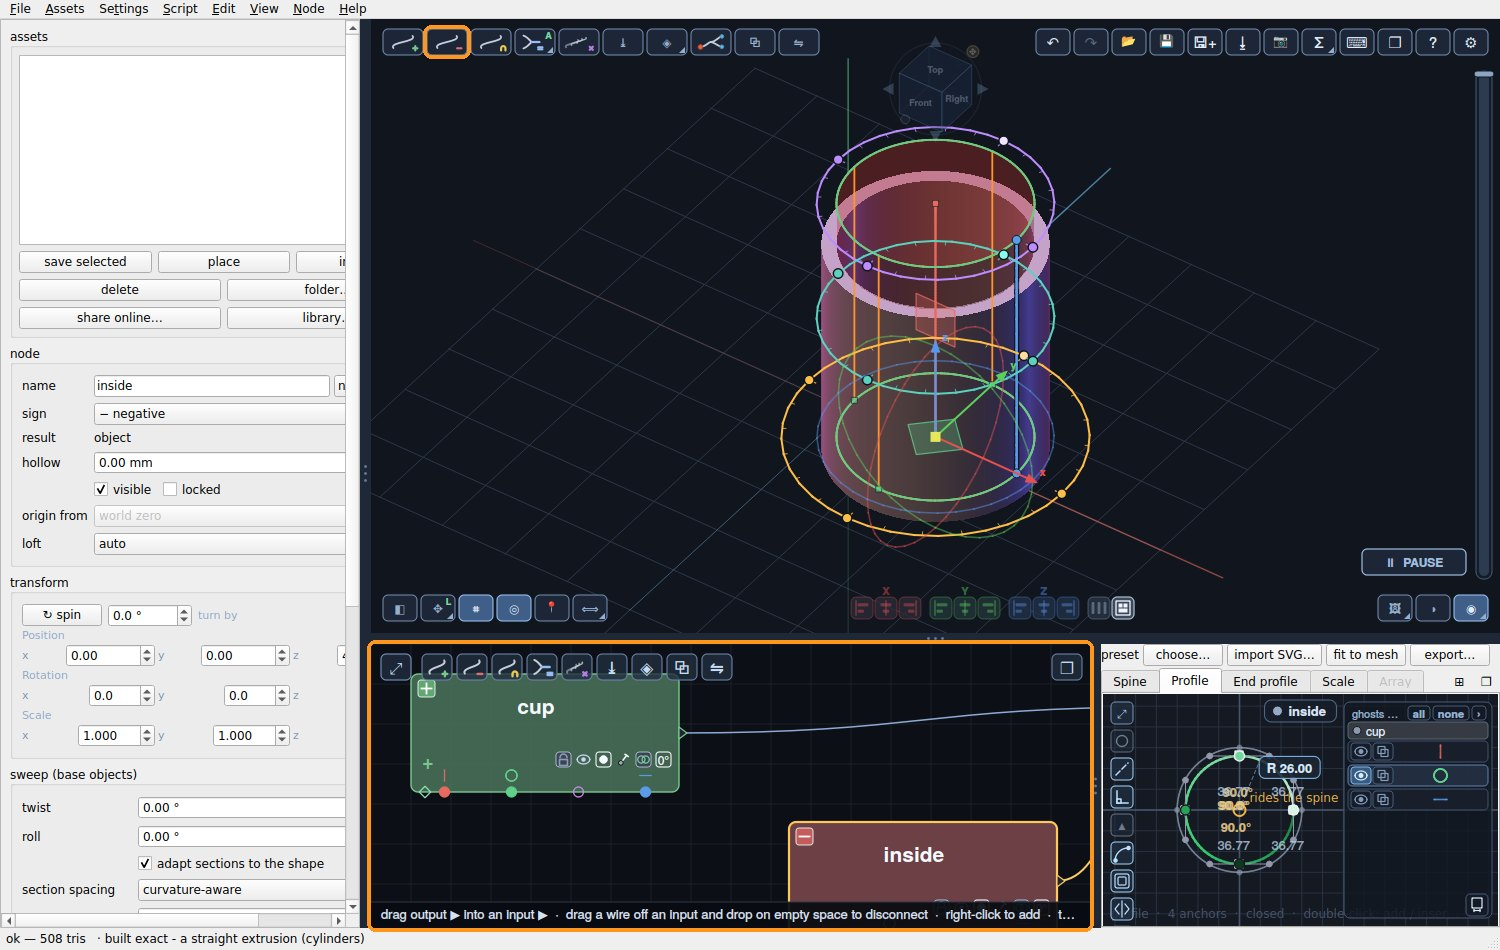
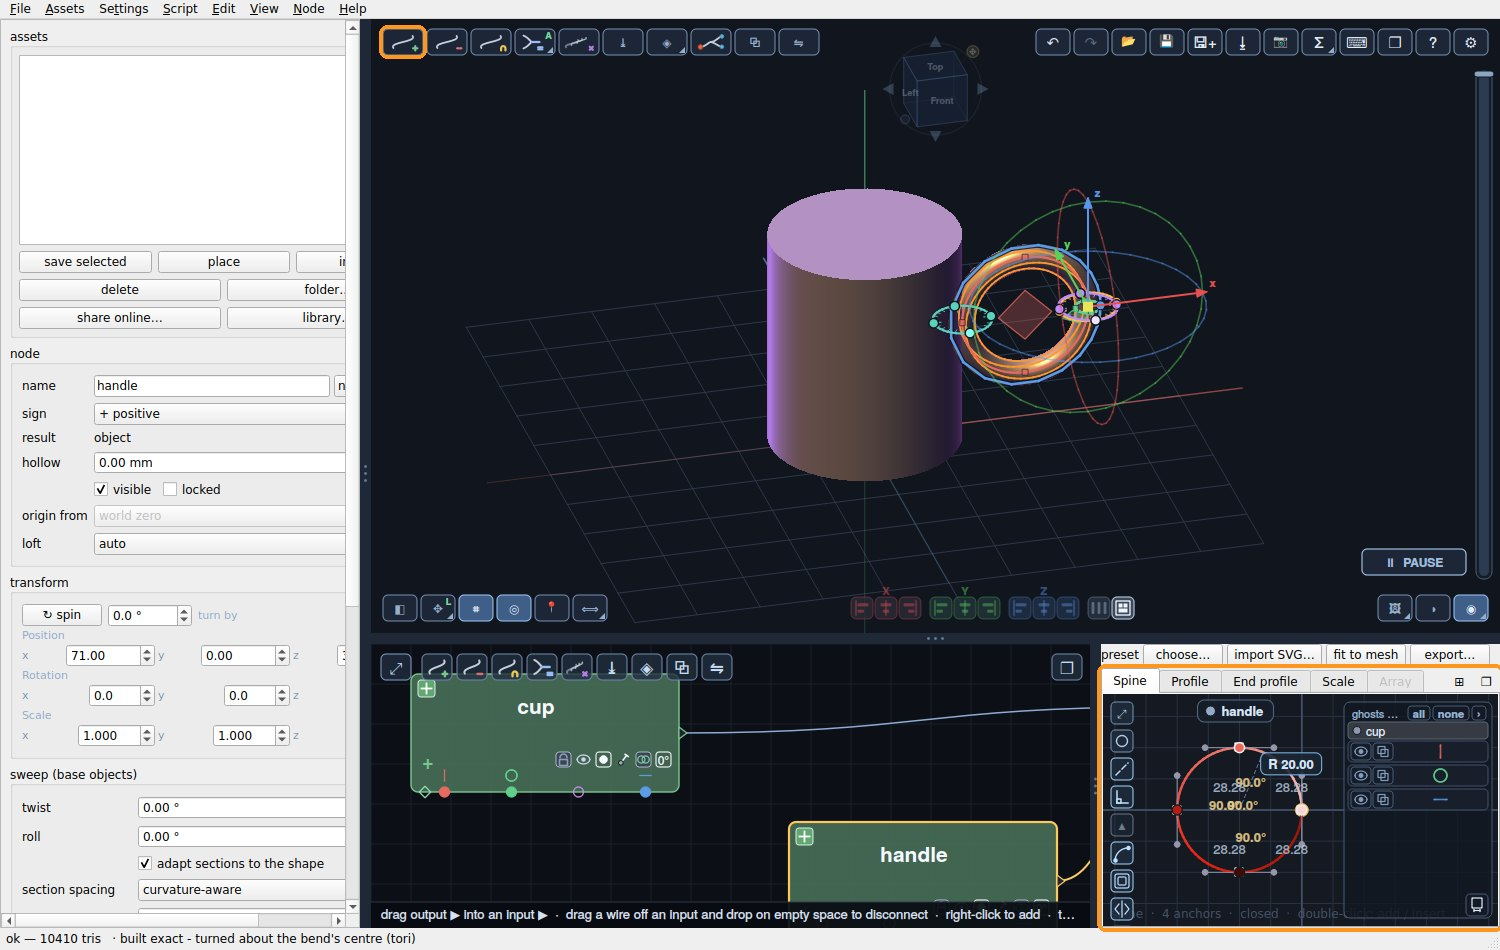
Tutorials: the mug gets its handle first, then the cut - so nothing of the handle stays inside
Claude-Session: https://claude.ai/code/session_01FinDQzmNEn83dQzT9cynig

diff --git a/tutorials.html b/tutorials.html
@@ -106,7 +106,7 @@ it is simple: everything is a <b>profile</b> (a cross-section) pushed along a <b
 <div class="cards">
   <a class="card" href="#window"><b>1 &middot; Finding your way</b><span>The window, the icons and the navigator. About three minutes.</span></a>
   <a class="card" href="#vase"><b>2 &middot; A twisted vase</b><span>One object, three graphs and a twist. About five minutes.</span></a>
-  <a class="card" href="#mug"><b>3 &middot; A mug: combining objects</b><span>Cut one object out of another, add a handle, and round the seam. About ten minutes.</span></a>
+  <a class="card" href="#mug"><b>3 &middot; A mug: combining objects</b><span>Add a handle to a cup, cut out its inside, and round the seam. About ten minutes.</span></a>
 </div>
 
 <p class="tip">&#128161; New in the next version: a short guided tour inside the app (Help &#9656; First steps tour)
@@ -223,7 +223,7 @@ from bottom to top, and the flutes spiral up the vase.</p>
 
 <h2 id="mug">3 &middot; A mug: combining objects</h2>
 <p>One object rarely makes a whole part. In SweeperCAD you combine objects: a <b>+</b> object adds material, a
-<b>&minus;</b> object cuts it away. You will make a cup, cut out its inside, and add a handle.</p>
+<b>&minus;</b> object cuts it away. You will make a cup, add a handle, and then cut out the inside.</p>
 
 <h3><span class="step">1</span>The cup</h3>
 <p>Start a new file (<b>File &#9656; New</b>). Click the <b>Profile</b> tab, then <b>preset</b> &#9656; <b>circle</b>.
@@ -233,31 +233,33 @@ and 70 mm tall.</p>
 <figure><img src="tutorials/mug-1.jpg" alt="A solid cylinder with a circle profile of radius 30" loading="lazy">
 <figcaption>The cup, still solid.</figcaption></figure>
 
-<h3><span class="step">2</span>Cut out the inside</h3>
-<p>With the cup selected, click <b>&minus;</b> at the top left of the 3D view, then <b>click on the top of the cup</b>.
-A new <i>negative</i> object appears, and because the cup was selected it <b>joins the cup</b> by itself: in the node
-editor you now see a red node (the cut) feeding a combine.</p>
-<p>Shape the cut like the cup: <b>Profile</b> &#9656; preset &#9656; circle, R <b>26</b>. <b>Spine</b>: top point, <b>80</b>. Then in
-the left panel set its <b>position</b> to x 0, y 0, z <b>4</b>. That leaves a 4 mm floor and 4 mm walls, and the cut
-runs out through the top.</p>
-<figure><img src="tutorials/mug-2.jpg" alt="The cup hollowed out by a negative object; the node editor shows the cup, the red negative node and a combine" loading="lazy">
-<figcaption>&minus; cuts away. The red node is the cut; the combine joins it to the cup.</figcaption></figure>
-
-<h3><span class="step">3</span>Add a handle</h3>
-<p>In the node editor, click the <b>combine</b> node (the cup with its cut), so the handle joins the whole cup. Click
-<b>+</b> at the top left of the 3D view and click beside the cup.</p>
+<h3><span class="step">2</span>Add a handle</h3>
+<p>With the cup selected, click <b>+</b> at the top left of the 3D view and click beside the cup. A new object appears,
+and because the cup was selected it <b>joins the cup</b> by itself: in the node editor the two now feed a combine.</p>
 <p>Make the handle a ring: <b>Profile</b> &#9656; preset &#9656; circle, R <b>4</b> (that is the thickness of the handle).
 <b>Spine</b> &#9656; preset &#9656; <b>circle (a ring)</b>: the spine itself is now a circle, so the profile travels round it.
 Set its <b>position</b> to x <b>71</b>, y 0, z <b>35</b>, and the ring sits against the side of the cup.</p>
-<figure><img src="tutorials/mug-3.jpg" alt="A ring-shaped handle against the side of the cup" loading="lazy">
+<figure><img src="tutorials/mug-2.jpg" alt="A ring-shaped handle against the side of the still solid cup" loading="lazy">
 <figcaption>A spine that is a circle makes a ring: the handle.</figcaption></figure>
 
+<h3><span class="step">3</span>Cut out the inside - last</h3>
+<p>In the node editor, click the <b>combine</b> (the cup with its handle), so the cut works on both. Click
+<b>&minus;</b> at the top left of the 3D view, then <b>click on the top of the cup</b>. A <i>negative</i> object joins:
+a red node in the node editor.</p>
+<p>Shape the cut like the cup: <b>Profile</b> &#9656; preset &#9656; circle, R <b>26</b>. <b>Spine</b>: top point, <b>80</b>. Then in
+the left panel set its <b>position</b> to x 0, y 0, z <b>4</b>. That leaves a 4 mm floor and 4 mm walls, and the cut
+runs out through the top.</p>
+<p class="tip">&#128161; Why the handle first? A cut removes everything that comes before it. Cut last, and it also trims
+any bit of the handle that pokes into the cup - the inside stays clean.</p>
+<figure><img src="tutorials/mug-3.jpg" alt="The cup with its handle, hollowed out by a negative object; the node editor shows the red negative node" loading="lazy">
+<figcaption>&minus; cuts away. The red node is the cut.</figcaption></figure>
+
 <h3><span class="step">4</span>Round the seam</h3>
-<p>Click the newest combine in the node editor (the whole mug). In the left panel, under <b>seam blend</b>, set
+<p>Click the combine of the cup and the handle in the node editor. In the left panel, under <b>seam blend</b>, set
 <b>mode</b> to <b>fillet</b> and the <b>radius</b> to <b>2</b> mm. The edge where the handle meets the cup is rounded, as if
 it were cast in one piece.</p>
-<figure><img src="tutorials/mug-4.jpg" alt="The finished mug, with the seam between handle and cup rounded" loading="lazy">
-<figcaption>The finished mug: a cup, a cut, a handle and a rounded seam - four steps, three objects.</figcaption></figure>
+<figure><img src="tutorials/mug-4.jpg" alt="The mug, with the seam between handle and cup rounded" loading="lazy">
+<figcaption>The finished mug: a cup, a handle, a cut and a rounded seam - three objects, two combines.</figcaption></figure>
 
 <p>That is combining: <b>+</b> adds, <b>&minus;</b> cuts, and whatever is selected when you place a new object is what it joins.
 Change any graph of any object later, and the mug follows.</p>
